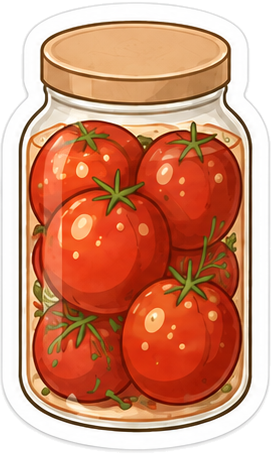
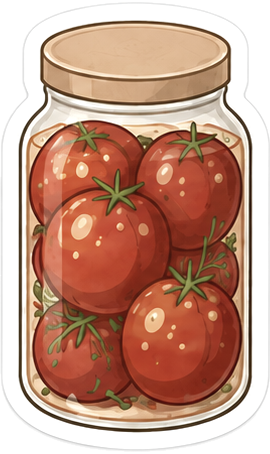
Соленья: правильная линия полки и приглушённый цвет
Банки стояли по задней кромке полки и висели над ней —
теперь стоят на переднем крае. Границы полки уточнены
по пикселям: от 75 до 650, ряд занимает её целиком.

Цвет приглушён до 0.65 насыщенности прямо в исходном листе,
а не в коде: банки были ярче всего остального в холодильнике
(0.36-0.55 против 0.42 у перца) и выбивались из общего тона.
Оригинал сохранён рядом как соленья3-исходник.png.

diff --git a/levels.js b/levels.js
@@ -50,7 +50,7 @@ const LEVELS = {
       orange: { image: 'images/orange.png',      width: 0.0872, height: 0.0574 },
       // У солений картинка не общая: банки выглядят по-разному, а место
       // принимает любую. Поэтому картинка задаётся в полосе, у каждой своя.
-      pickle: { width: 0.1406, height: 0.1329 },
+      pickle: { width: 0.1337, height: 0.1264 },
 
       half:   { image: 'images/melon-half.png',  width: 0.3347, height: 0.1579 },
       slice:  { image: 'images/melon-slice.png', width: 0.1381, height: 0.0783 }
@@ -82,12 +82,12 @@ const LEVELS = {
       // Затравки нет: свободная полка в холодильнике одна, и банкам
       // больше некуда встать. Любая банка идёт в любое свободное место —
       // иначе игроку пришлось бы угадывать порядок.
-      { id: 'pickle-1', sticker: 'pickle', x: 0.0837, bottom: 0.6704 },
-      { id: 'pickle-2', sticker: 'pickle', x: 0.2243, bottom: 0.6704 },
-      { id: 'pickle-3', sticker: 'pickle', x: 0.3649, bottom: 0.6704 },
-      { id: 'pickle-4', sticker: 'pickle', x: 0.5056, bottom: 0.6704 },
-      { id: 'pickle-5', sticker: 'pickle', x: 0.6462, bottom: 0.6704 },
-      { id: 'pickle-6', sticker: 'pickle', x: 0.7868, bottom: 0.6704 },
+      { id: 'pickle-1', sticker: 'pickle', x: 0.1046, bottom: 0.6862 },
+      { id: 'pickle-2', sticker: 'pickle', x: 0.2383, bottom: 0.6862 },
+      { id: 'pickle-3', sticker: 'pickle', x: 0.3719, bottom: 0.6862 },
+      { id: 'pickle-4', sticker: 'pickle', x: 0.5056, bottom: 0.6862 },
+      { id: 'pickle-5', sticker: 'pickle', x: 0.6392, bottom: 0.6862 },
+      { id: 'pickle-6', sticker: 'pickle', x: 0.7729, bottom: 0.6862 },
 
       // --- Вторая полка: арбуз на тарелках ---
       // Тарелки одинаковые, и заранее не решено, какая под что. Роль

diff --git a/tools/level1.py b/tools/level1.py
@@ -42,9 +42,9 @@ PLATE_X = [77, 372]             # левые края тарелок
 PLATE_INSIDE = 0.40             # доля высоты тарелки, на которой лежит еда
 PLATE_INNER = 0.80              # какая часть тарелки отводится под кусочки
 
-SHELF3 = 848                    # третья полка: передний край, на нём стоят банки
+SHELF3 = 868                    # третья полка: ПЕРЕДНИЙ край, на нём стоят банки
 SHELF2_BOTTOM = 655             # низ второй полки — выше банки не залезут
-SHELF3_L, SHELF3_R = 60, 665    # края третьей полки
+SHELF3_L, SHELF3_R = 75, 650    # края третьей полки
 PICKLE_COUNT = 6                # банок с соленьями в ряд
 
 DRAWER_TOP, DRAWER_BOTTOM = 915, 1127
